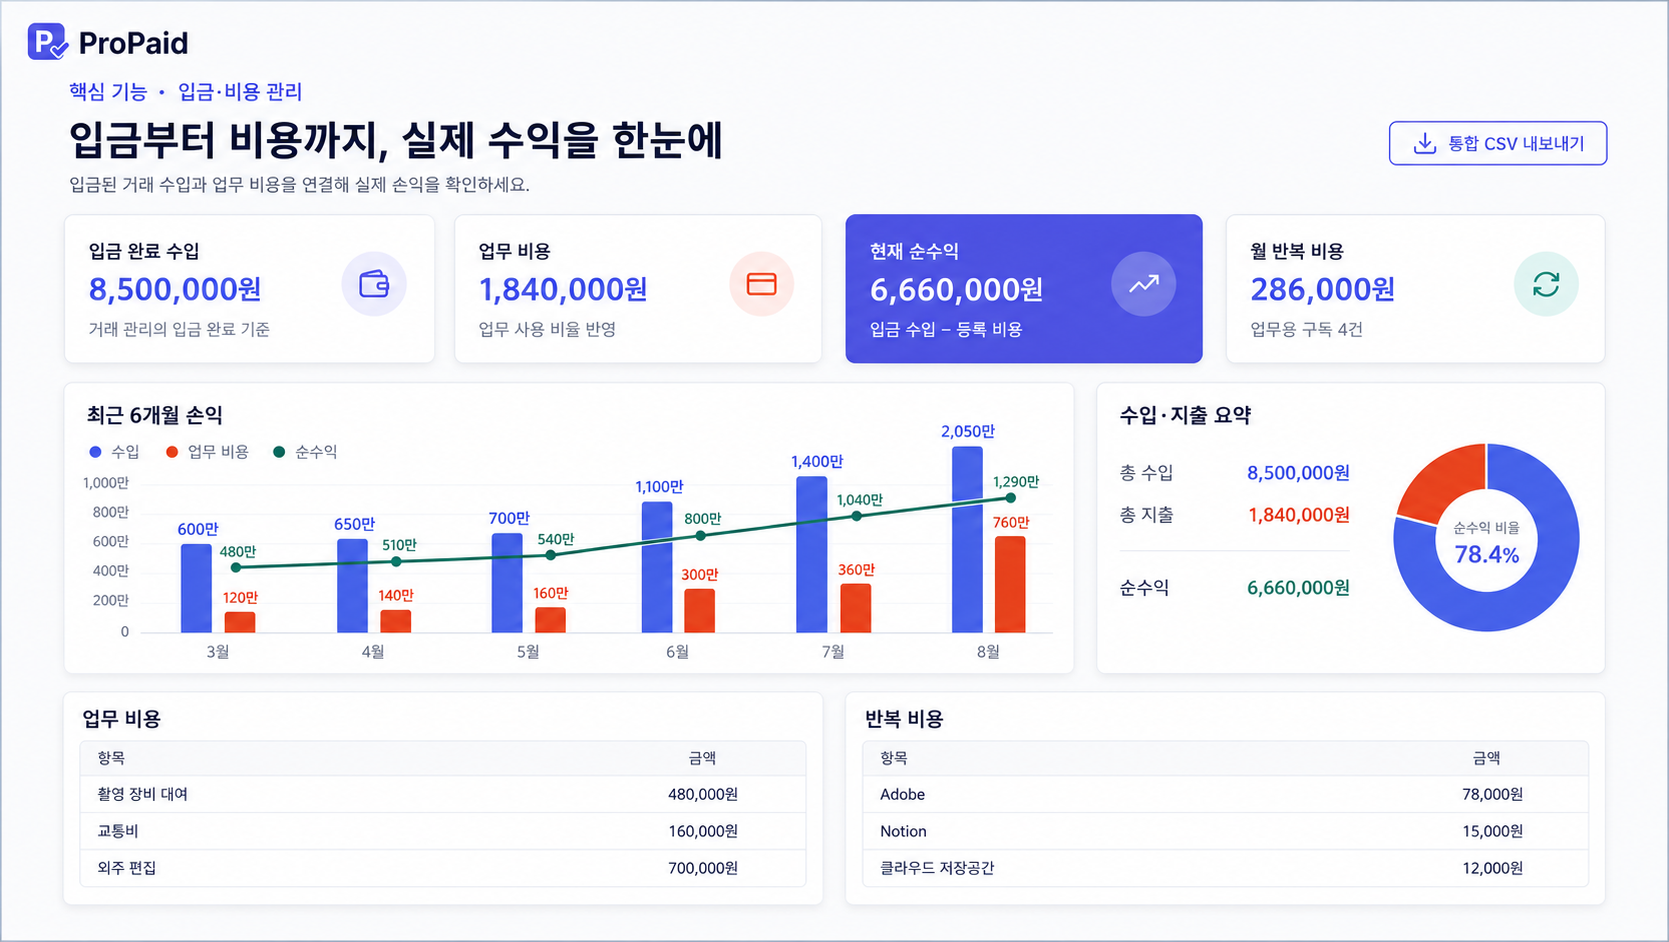
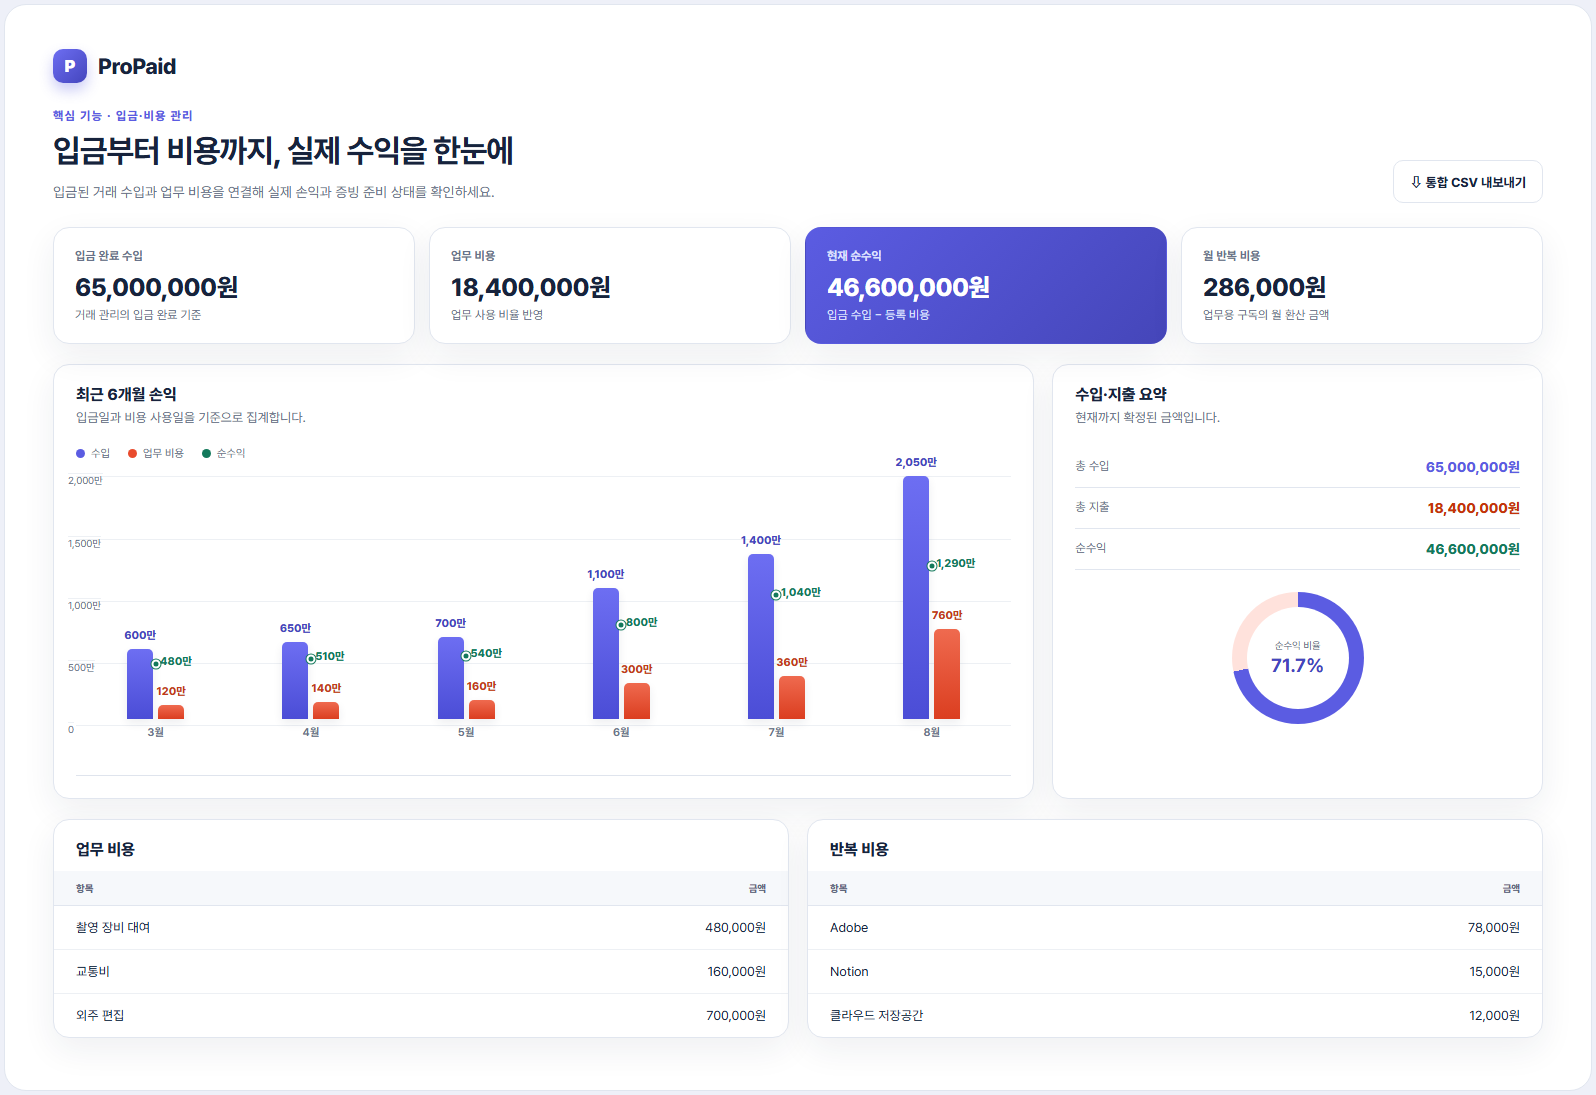
fix: correct brand name and mismatched figures in marketing screenshots
Notion export preview showed "Propaid" instead of "ProPaid" in both the
live app and the integration screenshot; the finance dashboard screenshot
showed a total income that did not match the sum of its own 6-month chart.
Also adds a portfolio overview doc.

diff --git a/frontend/src/pages/DealsPage.tsx b/frontend/src/pages/DealsPage.tsx
@@ -193,7 +193,7 @@ export default function DealsPage() {
               {notion?.connected ? <a className="badge badge-saved" href={notion.rootPageUrl ?? 'https://notion.so'} target="_blank" rel="noreferrer">● Notion · {notion.workspaceName || '워크스페이스'} 연결됨 ↗</a> : <span className="integration-status-off">연결 전</span>}
             </div>
             <div className="integration-preview" aria-hidden="true">
-              <span className="integration-preview-icon">▦</span><div><b>Propaid 거래 관리</b><small>거래처 · 상태 · 금액 · 핵심 일정</small></div><span className="integration-preview-arrow">→</span>
+              <span className="integration-preview-icon">▦</span><div><b>ProPaid 거래 관리</b><small>거래처 · 상태 · 금액 · 핵심 일정</small></div><span className="integration-preview-arrow">→</span>
             </div>
             <div className="integration-flow"><span>거래 확인</span><i>→</i><span>직접 내보내기</span><i>→</i><span>Notion 관리</span></div>
             <div className="integration-actions">{notion?.connected ? <><div className="action-row">{!notion.configured && <button className="btn btn-primary" onClick={() => void createNotionWorkspace()} disabled={notionBusy !== null}>{notionBusy === 'setup' ? '만드는 중…' : 'Propaid 공간 만들기'}</button>}<a className="btn btn-secondary btn-sm" href={notion.rootPageUrl ?? 'https://notion.so'} target="_blank" rel="noreferrer">Notion에서 열기</a><button className="btn btn-ghost btn-sm" onClick={() => void stopNotion()} disabled={notionBusy !== null}>{notionBusy === 'disconnect' ? '해제 중…' : '연결 해제'}</button></div></> : <button className="btn btn-primary" onClick={() => void startNotionConnect()} disabled={notionBusy !== null}>{notionBusy === 'connect' ? '연결 중…' : 'Notion 연결'}</button>}</div>

diff --git a/docs/PORTFOLIO.md b/docs/PORTFOLIO.md
@@ -1,0 +1,91 @@
+# ProPaid 포트폴리오
+
+> 제안부터 입금까지, 놓치지 않게.
+
+한국 크리에이터·프리랜서·1인 사업자를 위한 협찬·외주 메일 정리 및 거래 관리 서비스입니다.
+운영 사이트: [propaid-api.ionjk2879.workers.dev](https://propaid-api.ionjk2879.workers.dev)
+
+## 문제 정의
+
+프리랜서와 크리에이터에게 들어오는 협찬·외주 제안 메일은 거래처, 금액, 결과물, 납기, 수정 횟수, 지급 조건이
+비정형 텍스트로 흩어져 있습니다. 이를 놓치면 계약 조건 누락, 입금 지연, 실제 수익 파악 실패로 이어집니다.
+
+ProPaid는 이 흐름을 하나로 연결합니다.
+
+```text
+협찬·외주 제안
+→ 구조화 및 누락 조건 감지
+→ 사용자 확인
+→ 거래 저장
+→ 작업 일정 관리
+→ 입금 상태 관리
+→ 업무 비용 차감
+→ 실제 수익 확인
+```
+
+## 핵심 기능
+
+### 1. 제안 메일 구조화 분석
+
+메일 원문을 붙여넣으면 거래처, 거래 유형, 금액, 결과물, 초안·게시 납기, 수정 횟수, 2차 활용 조건,
+지급 조건을 추출하고 누락된 계약 조건과 작업 체크리스트를 함께 제시합니다. 명시되지 않은 값은 추측하지
+않고 확인이 필요한 항목으로 표시합니다. `ANTHROPIC_API_KEY`가 있으면 Claude Structured Outputs를 사용하고,
+없거나 호출에 실패하면 규칙 기반 분석기로 자동 복귀합니다.
+
+### 2. 거래 파이프라인 관리
+
+확인한 분석 결과는 사용자 확인 후 거래로 저장되며 `확인 필요 → 확정 → 진행 중 → 작업 완료 → 입금 완료`
+상태로 관리합니다. 칸반형 파이프라인 보기와 목록 보기를 전환할 수 있고, 입금 지연 거래는 별도 작업
+화면에서 확인 메일 초안과 함께 모아 보여줍니다.
+
+### 3. 외부 연동 — Notion · Google Calendar
+
+사용자가 직접 확인한 거래만 선택적으로 내보냅니다. Notion Public OAuth로 연결하면 `ProPaid 거래 관리`
+데이터베이스를 워크스페이스에 자동 구성하고, Google Calendar에는 초안·게시·입금 예정일을 등록합니다.
+자동 동기화가 아닌 사용자 트리거 기반 내보내기로, 확인되지 않은 거래가 외부로 새어 나가지 않습니다.
+
+![Notion·Google Calendar 연동](../frontend/public/notion-calendar-integration.png)
+
+### 4. 입금·비용 통합 재무 관리
+
+입금 완료된 거래 수입과 일반 비용·반복 구독 비용을 연결해 실제 순수익을 계산합니다. 비용은 업무 사용
+비율과 증빙(영수증·세금계산서 등)·공제 검토 상태를 함께 기록하며, 최근 6개월 손익 추이와 수입·지출 요약을
+한 화면에서 확인할 수 있습니다. 신고 준비를 위한 통합 CSV도 내보낼 수 있습니다.
+
+![입금·비용 통합 재무 관리](../frontend/public/income-expense-dashboard.png)
+
+## 기술 스택
+
+| 영역 | 구성 |
+| --- | --- |
+| 프론트엔드 | React 18, TypeScript, Vite, React Router, Recharts, Pretendard |
+| 백엔드 | Cloudflare Workers, Hono, TypeScript |
+| 데이터베이스 | Cloudflare D1 |
+| 파일 저장 | Cloudflare R2 (증빙 업로드) |
+| 인증 | Google OpenID Connect |
+| 외부 연동 | Notion Public OAuth API, Google Calendar API |
+| 메일 수신 | Resend Inbound (웹훅 서명 검증) |
+| AI 분석 | Claude Messages API Structured Outputs (선택적, 규칙 기반 분석기로 폴백) |
+| 배포 | GitHub `main` push → Cloudflare Workers Builds 자동 배포 |
+
+레거시 Spring Boot 구현은 `backend/`에 전환 검증용으로 보존되어 있으며, 운영 런타임은 1인 개발 운영비를
+최소화하기 위해 Cloudflare Workers + D1으로 전환했습니다.
+
+## 아키텍처 특징
+
+- **사용자 확인 우선**: AI/규칙 기반 분석 결과는 항상 사용자가 확인해야 거래로 확정되며, 외부 연동도
+  사용자가 선택한 거래만 내보냅니다.
+- **최소 권한 인증**: Gmail 전체 읽기 권한을 사용하지 않고, 메일 원문 붙여넣기와 사용자별 전달 주소만으로
+  MVP 입력을 구성합니다.
+- **암호화된 연동 토큰**: Notion OAuth 토큰은 `JWT_SECRET`에서 파생한 AES-GCM 키로 암호화해 D1에
+  저장하며, 연결 해제 시 즉시 삭제합니다.
+- **AI 장애 허용**: Anthropic API 키가 없거나 호출이 실패해도 규칙 기반 분석기가 핵심 흐름을 계속
+  지원합니다.
+
+## 진행 상태
+
+Cloudflare 기반 핵심 흐름(제안 분석 → 거래 저장 → 상태 관리 → 재무 관리)과 Notion Public OAuth 연동이
+운영 검증을 마쳤습니다. 다음 단계는 파이프라인 카드에서 바로 상태를 변경하는 UX 개선, Google Calendar
+일정 자동 생성, Google Sheets 내보내기와 첨부파일 OCR 분석입니다. 자세한 현재 구현 목록은
+[`PROJECT_STATUS.md`](./PROJECT_STATUS.md), 제품 방향과 요금제 가설은
+[`PRODUCT_DIRECTION.md`](./PRODUCT_DIRECTION.md)에서 확인할 수 있습니다.
